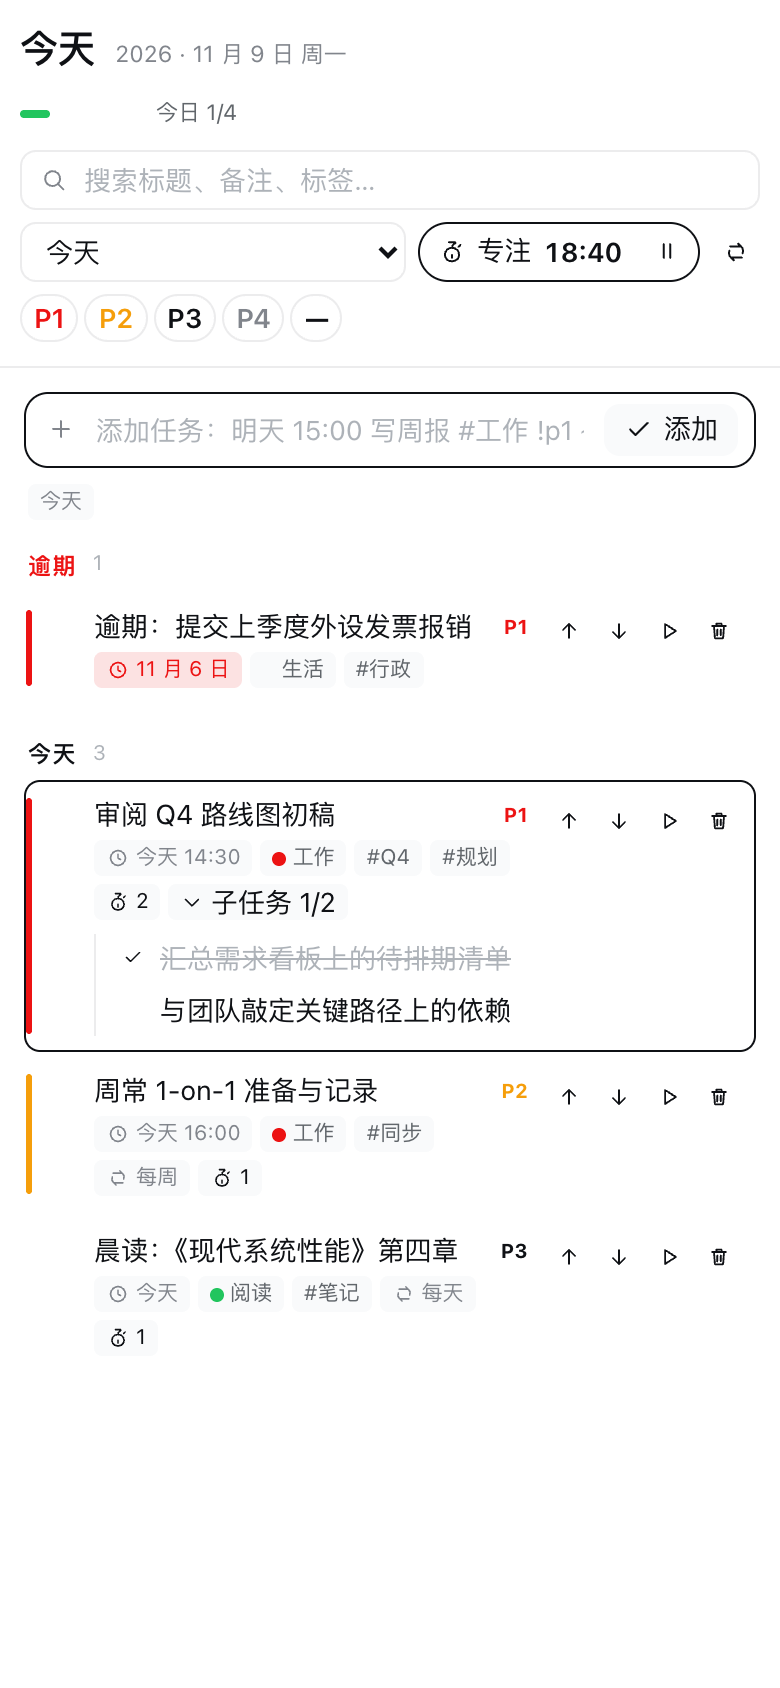
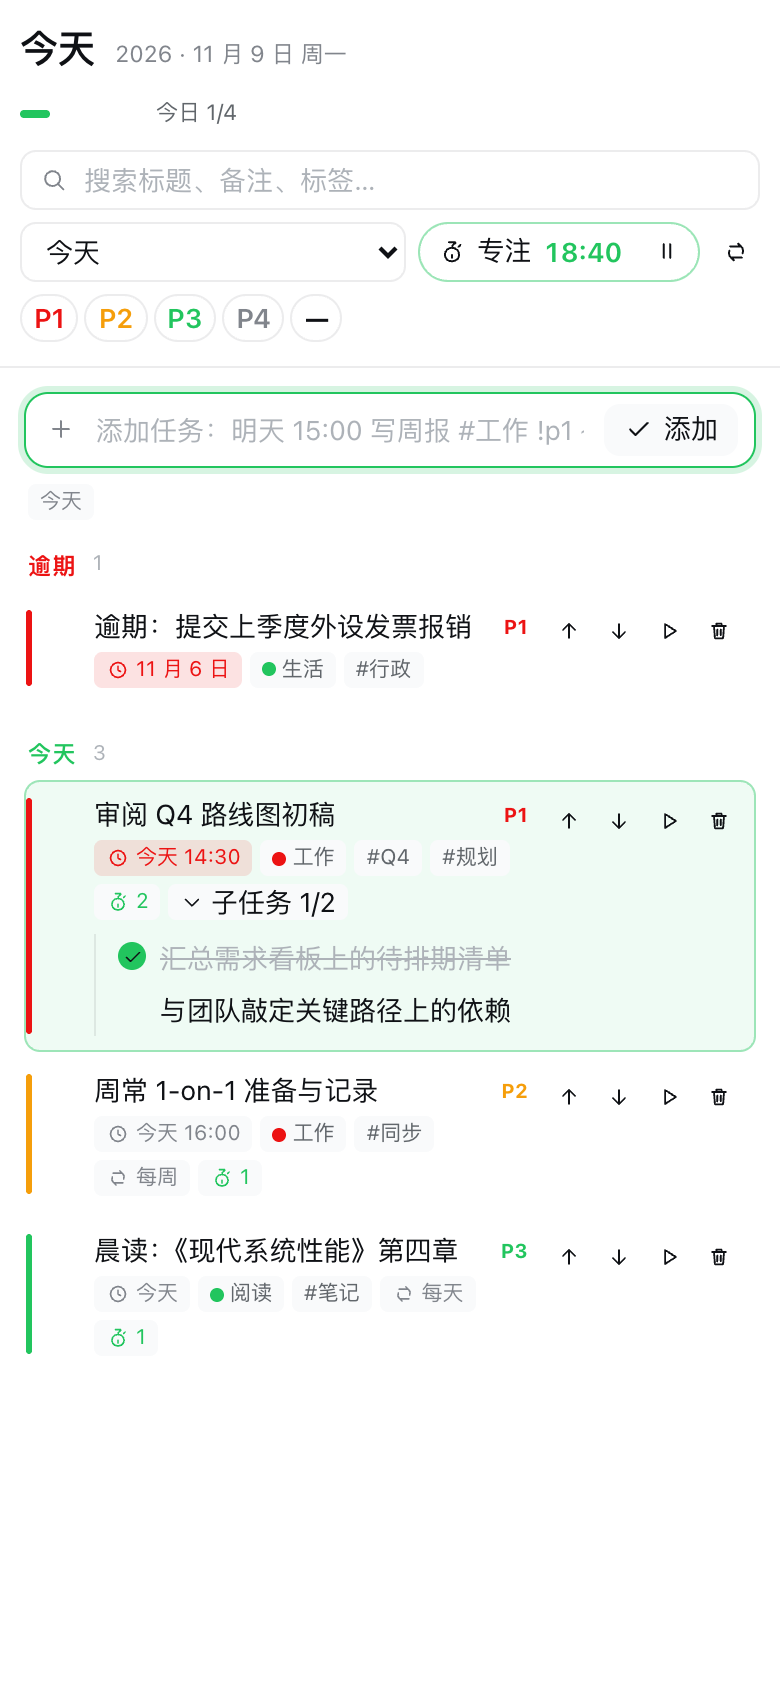
feat: default the completion chime to off, with a test button in pomodoro settings

diff --git a/lib/client.js b/lib/client.js
@@ -230,6 +230,8 @@ window.__ModuleLoader__.load({
         "settings.longBreakEvery": "每几个专注后长休",
         "settings.autoStartNext": "自动开始下一段",
         "settings.sound": "结束提示音",
+        "settings.soundTest": "试听",
+        "settings.soundHint": "默认关闭",
         "settings.dailyGoal": "每日番茄目标",
 
         "error.load": "无法连接宿主：{message}",
@@ -489,6 +491,8 @@ window.__ModuleLoader__.load({
         "settings.longBreakEvery": "Focuses before a long break",
         "settings.autoStartNext": "Auto-start the next session",
         "settings.sound": "Completion sound",
+        "settings.soundTest": "Test",
+        "settings.soundHint": "Off by default",
         "settings.dailyGoal": "Daily pomodoro goal",
 
         "error.load": "Cannot reach the host: {message}",
@@ -969,7 +973,8 @@ window.__ModuleLoader__.load({
       longBreakMinutes: 15,
       longBreakEvery: 4,
       autoStartNext: false,
-      sound: true,
+      // 结束提示音默认关闭，用户在番茄钟设置里主动打开
+      sound: false,
       dailyGoal: 8,
     };
 
@@ -988,7 +993,7 @@ window.__ModuleLoader__.load({
         longBreakMinutes: clamp(merged.longBreakMinutes, 1, 120, 15),
         longBreakEvery: clamp(merged.longBreakEvery, 2, 12, 4),
         autoStartNext: Boolean(merged.autoStartNext),
-        sound: merged.sound !== false,
+        sound: merged.sound === true,
         dailyGoal: clamp(merged.dailyGoal, 1, 40, 8),
       };
     }
@@ -3574,12 +3579,33 @@ window.__ModuleLoader__.load({
               h(
                 "label",
                 { className: "todo-setting todo-setting-toggle" },
-                h("span", null, t("settings.sound")),
-                h("input", {
-                  type: "checkbox",
-                  checked: settings.sound !== false,
-                  onChange: (event) => ui.onSettings({ sound: event.target.checked }),
-                }),
+                h(
+                  "span",
+                  { className: "todo-setting-text" },
+                  t("settings.sound"),
+                  h("em", { className: "todo-setting-hint" }, t("settings.soundHint")),
+                ),
+                h(
+                  "span",
+                  { className: "todo-setting-actions" },
+                  h(
+                    "button",
+                    {
+                      type: "button",
+                      className: "todo-btn todo-btn-sm todo-btn-ghost",
+                      onClick: (event) => {
+                        event.preventDefault();
+                        playChime();
+                      },
+                    },
+                    t("settings.soundTest"),
+                  ),
+                  h("input", {
+                    type: "checkbox",
+                    checked: settings.sound === true,
+                    onChange: (event) => ui.onSettings({ sound: event.target.checked }),
+                  }),
+                ),
               ),
             ),
           ),
@@ -4145,7 +4171,8 @@ window.__ModuleLoader__.load({
 
     const CSS = `
 .todo-root {
-  --todo-accent: var(--dsw-alias-state-business-primary);
+  /* 与插件 Logo、番茄钟同色系：强调色用成功绿而不是宿主的品牌蓝 */
+  --todo-accent: var(--dsw-alias-state-success-primary);
   --todo-danger: var(--dsw-alias-state-error-primary);
   --todo-warn: var(--dsw-alias-state-warn-primary);
   --todo-ok: var(--dsw-alias-state-success-primary);
@@ -4219,6 +4246,12 @@ window.__ModuleLoader__.load({
   background: var(--dsw-alias-state-success-primary);
 }
 .todo-row-timer[hidden] { display: none; }
+.todo-setting-text { display: inline-flex; align-items: baseline; gap: 6px; }
+.todo-setting-hint {
+  font-style: normal; font-size: 11px;
+  color: var(--dsw-alias-label-caption);
+}
+.todo-setting-actions { display: inline-flex; align-items: center; gap: 8px; }
 .todo-nav {
   display: flex; flex-direction: column; gap: 18px;
   min-height: 0; height: 100%;

diff --git a/test/store.test.js b/test/store.test.js
@@ -1,5 +1,5 @@
 import assert from "node:assert/strict";
-import { existsSync, mkdtempSync, readdirSync, rmSync, statSync, writeFileSync } from "node:fs";
+import { existsSync, mkdirSync, mkdtempSync, readdirSync, rmSync, statSync, writeFileSync } from "node:fs";
 import { tmpdir } from "node:os";
 import { join } from "node:path";
 import { afterEach, beforeEach, test } from "node:test";
@@ -39,7 +39,7 @@ afterEach(() => {
 
 test("readState returns default empty state when file does not exist", () => {
   const state = readState({ dataDir: testDir });
-  assert.equal(state.version, 1);
+  assert.equal(state.version, 2);
   assert.deepEqual(state.tasks, []);
   assert.deepEqual(state.projects, []);
   assert.deepEqual(state.sessions, []);
@@ -328,7 +328,7 @@ test("corrupt state file is quarantined and recovered to empty state", () => {
   const fakeLogger = { warn: (msg) => warnings.push(msg) };
   const recovered = readState({ dataDir: testDir, logger: fakeLogger });
 
-  assert.equal(recovered.version, 1);
+  assert.equal(recovered.version, 2);
   assert.deepEqual(recovered.tasks, []);
   assert.ok(warnings.length > 0);
 
@@ -498,4 +498,35 @@ test("summary counts views and computes a multi-day streak", () => {
   assert.equal(stats.pomodoro.todayFocus, 1);
   assert.equal(stats.pomodoro.week.length, 7);
   assert.equal(stats.pomodoro.week.at(-1).date, "2026-11-09");
+});
+
+test("提示音默认关闭，且 v1 旧文件迁移为关闭", () => {
+  // 新文件：默认不响
+  const fresh = readState({ dataDir: testDir });
+  assert.equal(fresh.settings.sound, false);
+  assert.equal(DEFAULT_SETTINGS.sound, false);
+
+  // 旧 v1 文件（当年默认 true）读出来必须关掉
+  mkdirSync(testDir, { recursive: true });
+  writeFileSync(
+    dataFile({ dataDir: testDir }),
+    JSON.stringify({
+      version: 1,
+      tasks: [],
+      projects: [],
+      sessions: [],
+      settings: { ...DEFAULT_SETTINGS, sound: true, dailyGoal: 12 },
+    }),
+    { mode: 0o600 },
+  );
+  const migrated = readState({ dataDir: testDir });
+  assert.equal(migrated.settings.sound, false, "v1 迁移后应关闭提示音");
+  assert.equal(migrated.settings.dailyGoal, 12, "其他设置不受迁移影响");
+  assert.equal(migrated.version, 2);
+});
+
+test("用户在面板里打开提示音后保持开启", () => {
+  updateSettings({ sound: true }, { dataDir: testDir });
+  const state = readState({ dataDir: testDir });
+  assert.equal(state.settings.sound, true, "version 2 文件不应再被迁移覆盖");
 });

diff --git a/preview/index.html b/preview/index.html
@@ -45,6 +45,9 @@
         --dsw-alias-state-error-primary: var(--dsw-static-red-600);
         --dsw-alias-state-warn-primary: var(--dsw-static-amber-500);
         --dsw-alias-state-success-primary: var(--dsw-static-green-500);
+        --dsw-alias-state-business-primary: #4176e6;
+        --dsw-alias-state-business-tertiary: #e4edfd;
+        --dsw-specific-sidebar-fill: var(--dsw-static-neutral-bluish-00);
         --dsw-alias-button-primary-fill: #0f1115;
         --dsw-alias-button-primary-hover: #43454a;
 
@@ -77,6 +80,9 @@
         --dsw-alias-interactive-bg-hover: rgba(255, 255, 255, 0.08);
         --dsw-alias-interactive-bg-active: rgba(255, 255, 255, 0.14);
         --dsw-alias-state-error-primary: var(--dsw-static-red-400);
+        --dsw-alias-state-business-primary: #7aaaff;
+        --dsw-alias-state-business-tertiary: #1b2a44;
+        --dsw-specific-sidebar-fill: var(--dsw-static-neutral-bluish-950);
         --dsw-alias-button-primary-fill: var(--dsw-static-neutral-bluish-50);
         --dsw-alias-button-primary-hover: var(--dsw-static-neutral-bluish-100);
       }
@@ -577,7 +583,7 @@
           longBreakMinutes: 15,
           longBreakEvery: 4,
           autoStartNext: false,
-          sound: true,
+          sound: false,
           dailyGoal: 8,
         },
       };

diff --git a/lib/store.js b/lib/store.js
@@ -56,7 +56,8 @@ export const DEFAULT_SETTINGS = Object.freeze({
   longBreakMinutes: 15,
   longBreakEvery: 4,
   autoStartNext: false,
-  sound: true,
+  /** 结束提示音默认关闭，用户主动打开才响。 */
+  sound: false,
   dailyGoal: 8,
 });
 
@@ -246,9 +247,12 @@ function normalizeProjectName(value) {
 /* 状态读写                                                            */
 /* ------------------------------------------------------------------ */
 
+/** 当前数据结构版本；v2 起提示音默认关闭。 */
+export const STATE_VERSION = 2;
+
 function emptyState() {
   return {
-    version: 1,
+    version: STATE_VERSION,
     tasks: [],
     projects: [],
     sessions: [],
@@ -409,7 +413,10 @@ function normalizeState(raw) {
   state.sessions = sessions.slice(-LIMITS.sessions);
 
   state.settings = normalizeSettings(raw.settings);
-  state.version = 1;
+  // v1 时期提示音默认开启且无法区分"默认"与"主动打开"，迁移时统一关掉；
+  // 用户之后在面板里打开会写入 version 2 的文件，不再被覆盖。
+  if (!Number.isInteger(raw.version) || raw.version < STATE_VERSION) state.settings.sound = false;
+  state.version = STATE_VERSION;
   return state;
 }
 

diff --git a/README.md b/README.md
@@ -56,7 +56,7 @@ With the sidebar expanded, the countdown sits at the end of the row, right after
 - **Task Binding**: Bind the active timer to any task; completing a focus session increments that task's Pomodoro counter.
 - **Composer dock**: A compact timer row sits under chat composer in every session — idle shows the configured focus length, running shows the countdown with the bound task and pause/skip controls. The sidebar icon shows a pulsing dot while a session runs.
 - **Persistent Countdown**: Timer state is preserved in browser storage (`localStorage`) with absolute timestamps, surviving page refreshes without drifting.
-- **Audio & Visual Alerts**: Synthetic Web Audio chime and optional browser notification when a session ends.
+- **Audio & Visual Alerts**: A browser notification when a session ends, plus a synthetic Web Audio chime that is **off by default** — turn it on in the pomodoro settings, where a Test button plays it immediately.
 - **Statistics**: Today's Pomodoros vs daily goal, focus minutes, cumulative totals, current streak (in days), and a 7-day bar chart.
 
 ### Keyboard shortcuts

diff --git a/docs/design.md b/docs/design.md
@@ -25,7 +25,7 @@
 
 - 模式：专注 25 分钟 / 短休 5 分钟 / 长休 15 分钟，每 4 个专注后进入长休（时长与间隔可在设置里改）。
 - 可绑定一个任务；专注结束后该任务累计 1 个番茄。
-- 结束提醒：浏览器通知（有权限时）+ 合成提示音 + 页内提示条；不依赖系统通知权限。
+- 结束提醒：浏览器通知（有权限时）+ 页内提示条；提示音默认关闭，在番茄钟设置里打开，并提供「试听」按钮；不依赖系统通知权限。
 - 状态持久化在 `localStorage`（含 `endsAt` 时间戳），刷新页面继续倒计时，不会每次写宿主。
 - 每次完成的专注写入宿主 `sessions`，用于统计：今日番茄数、今日专注分钟、近 7 天柱状图、连续专注天数。
 - 面板顶部常驻当前番茄钟状态，任意视图都能看到并暂停/继续。
